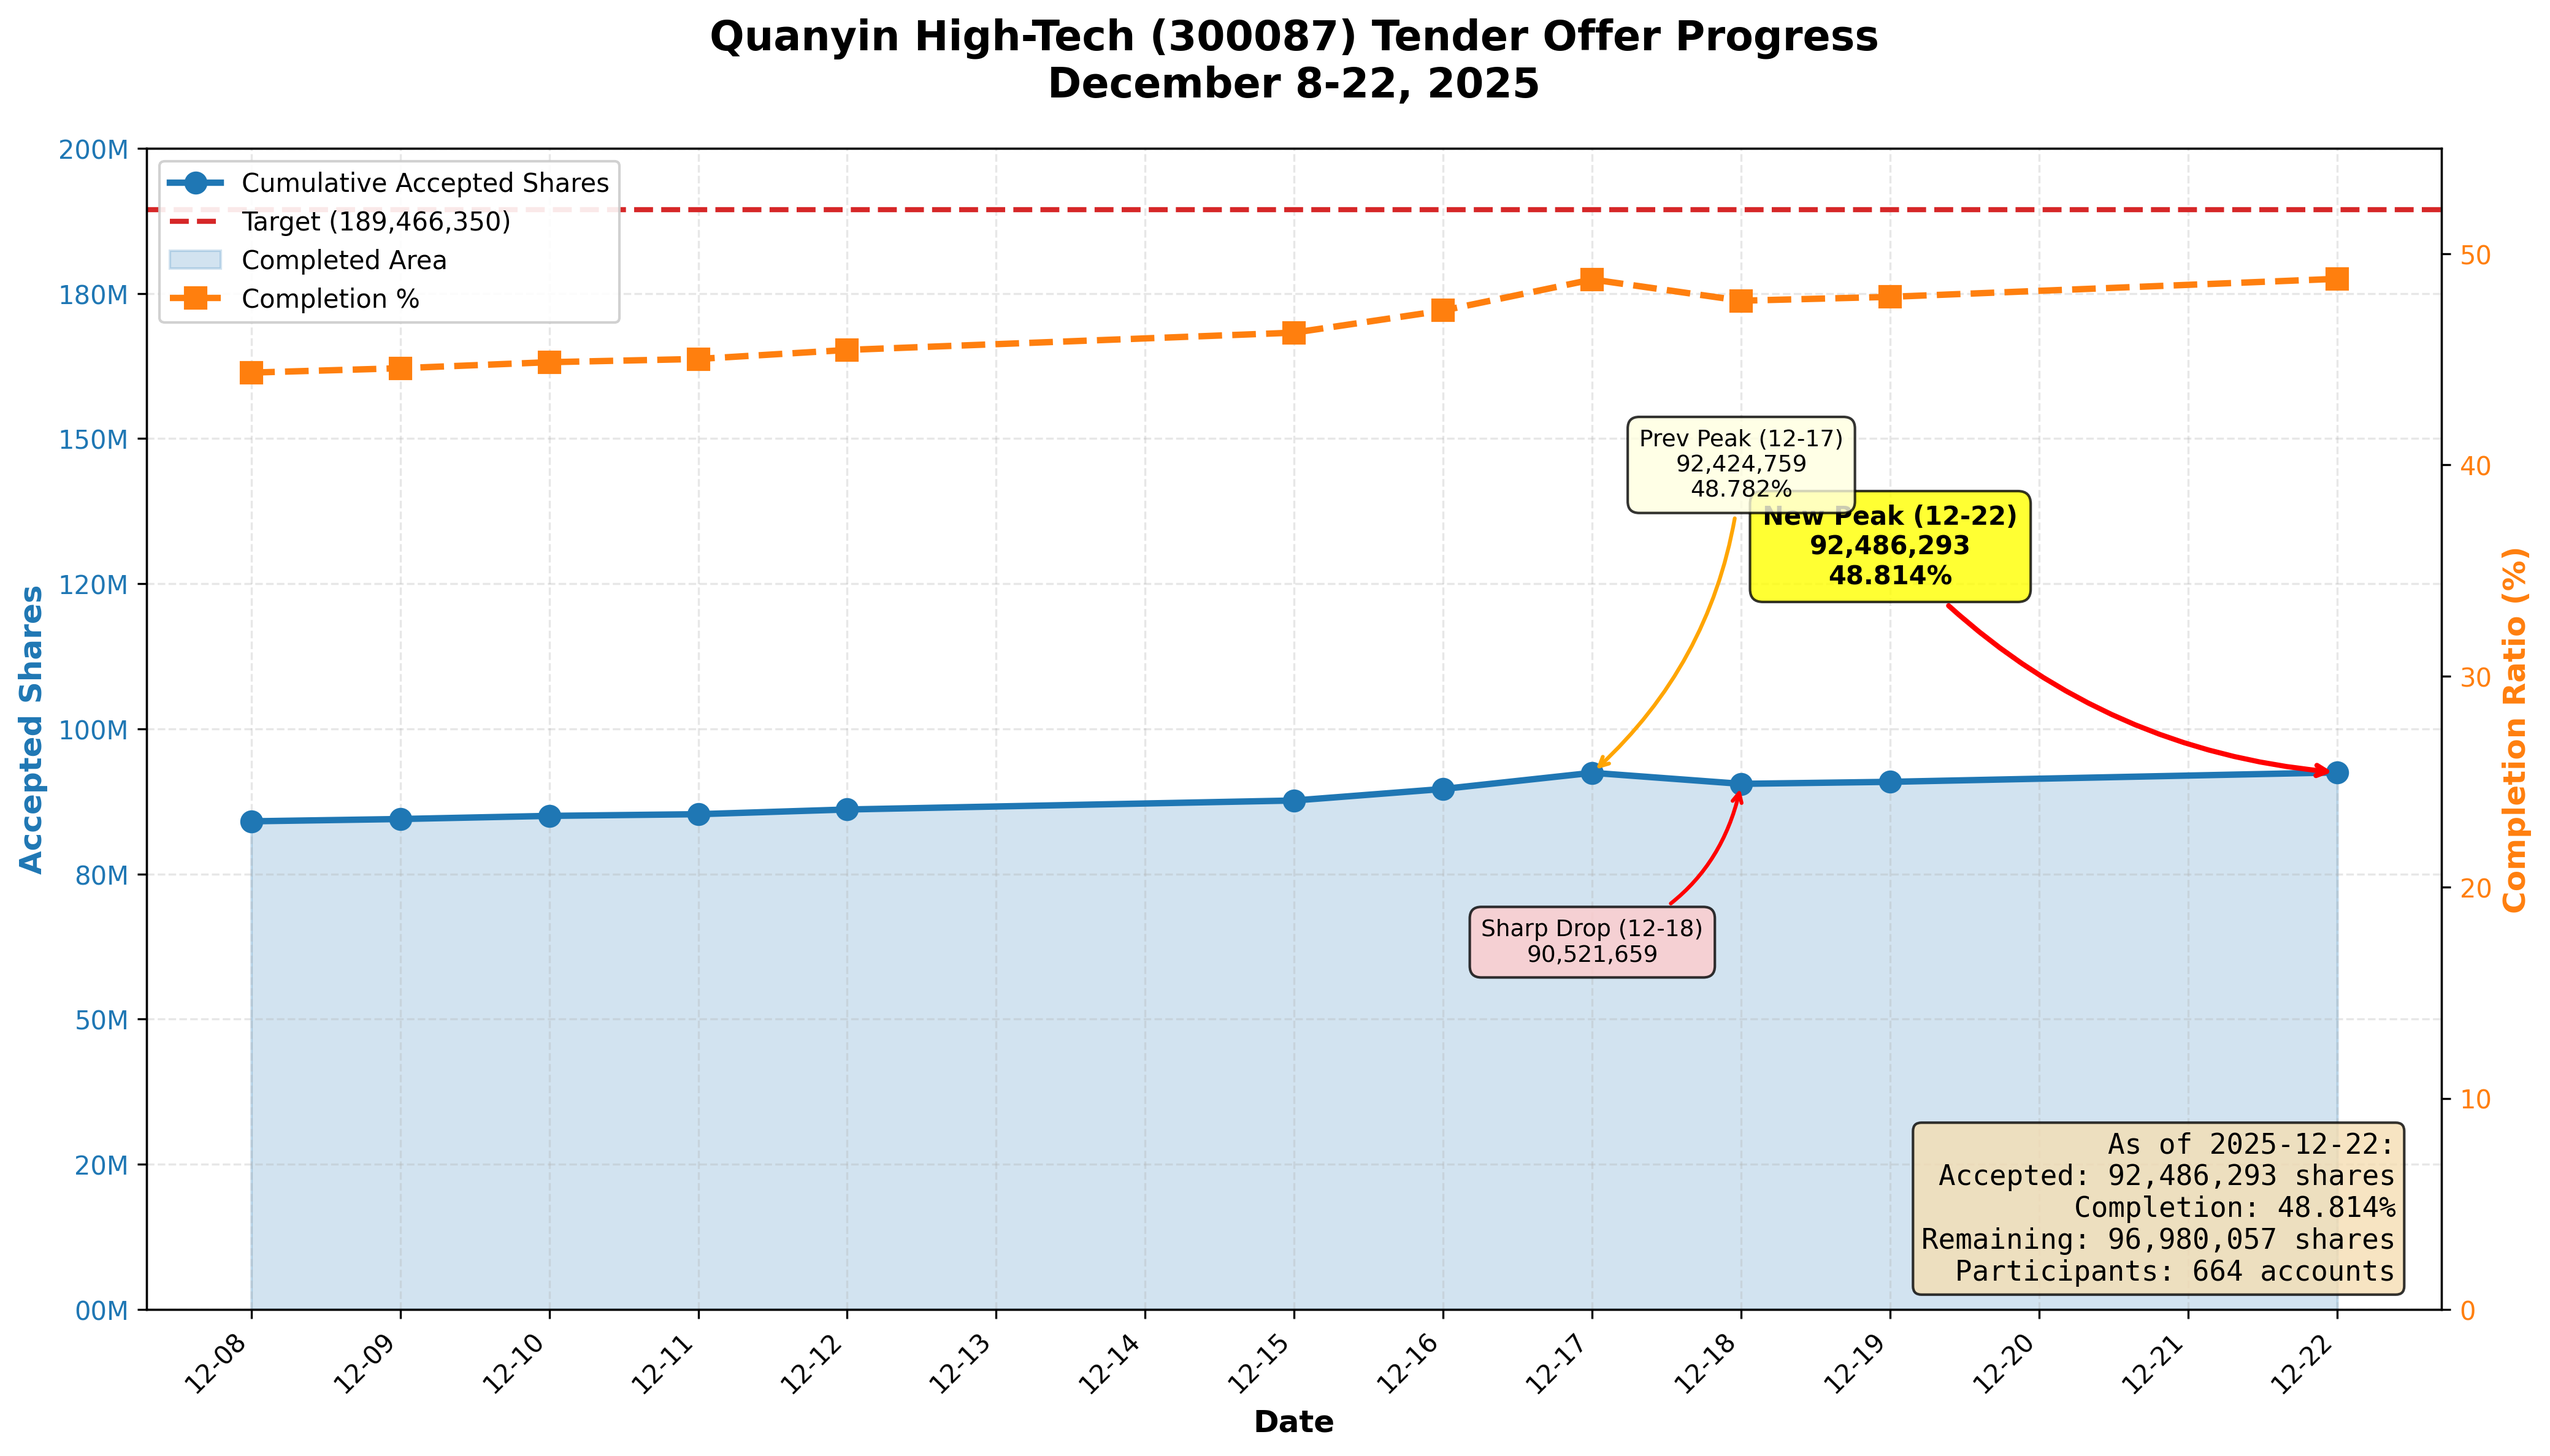
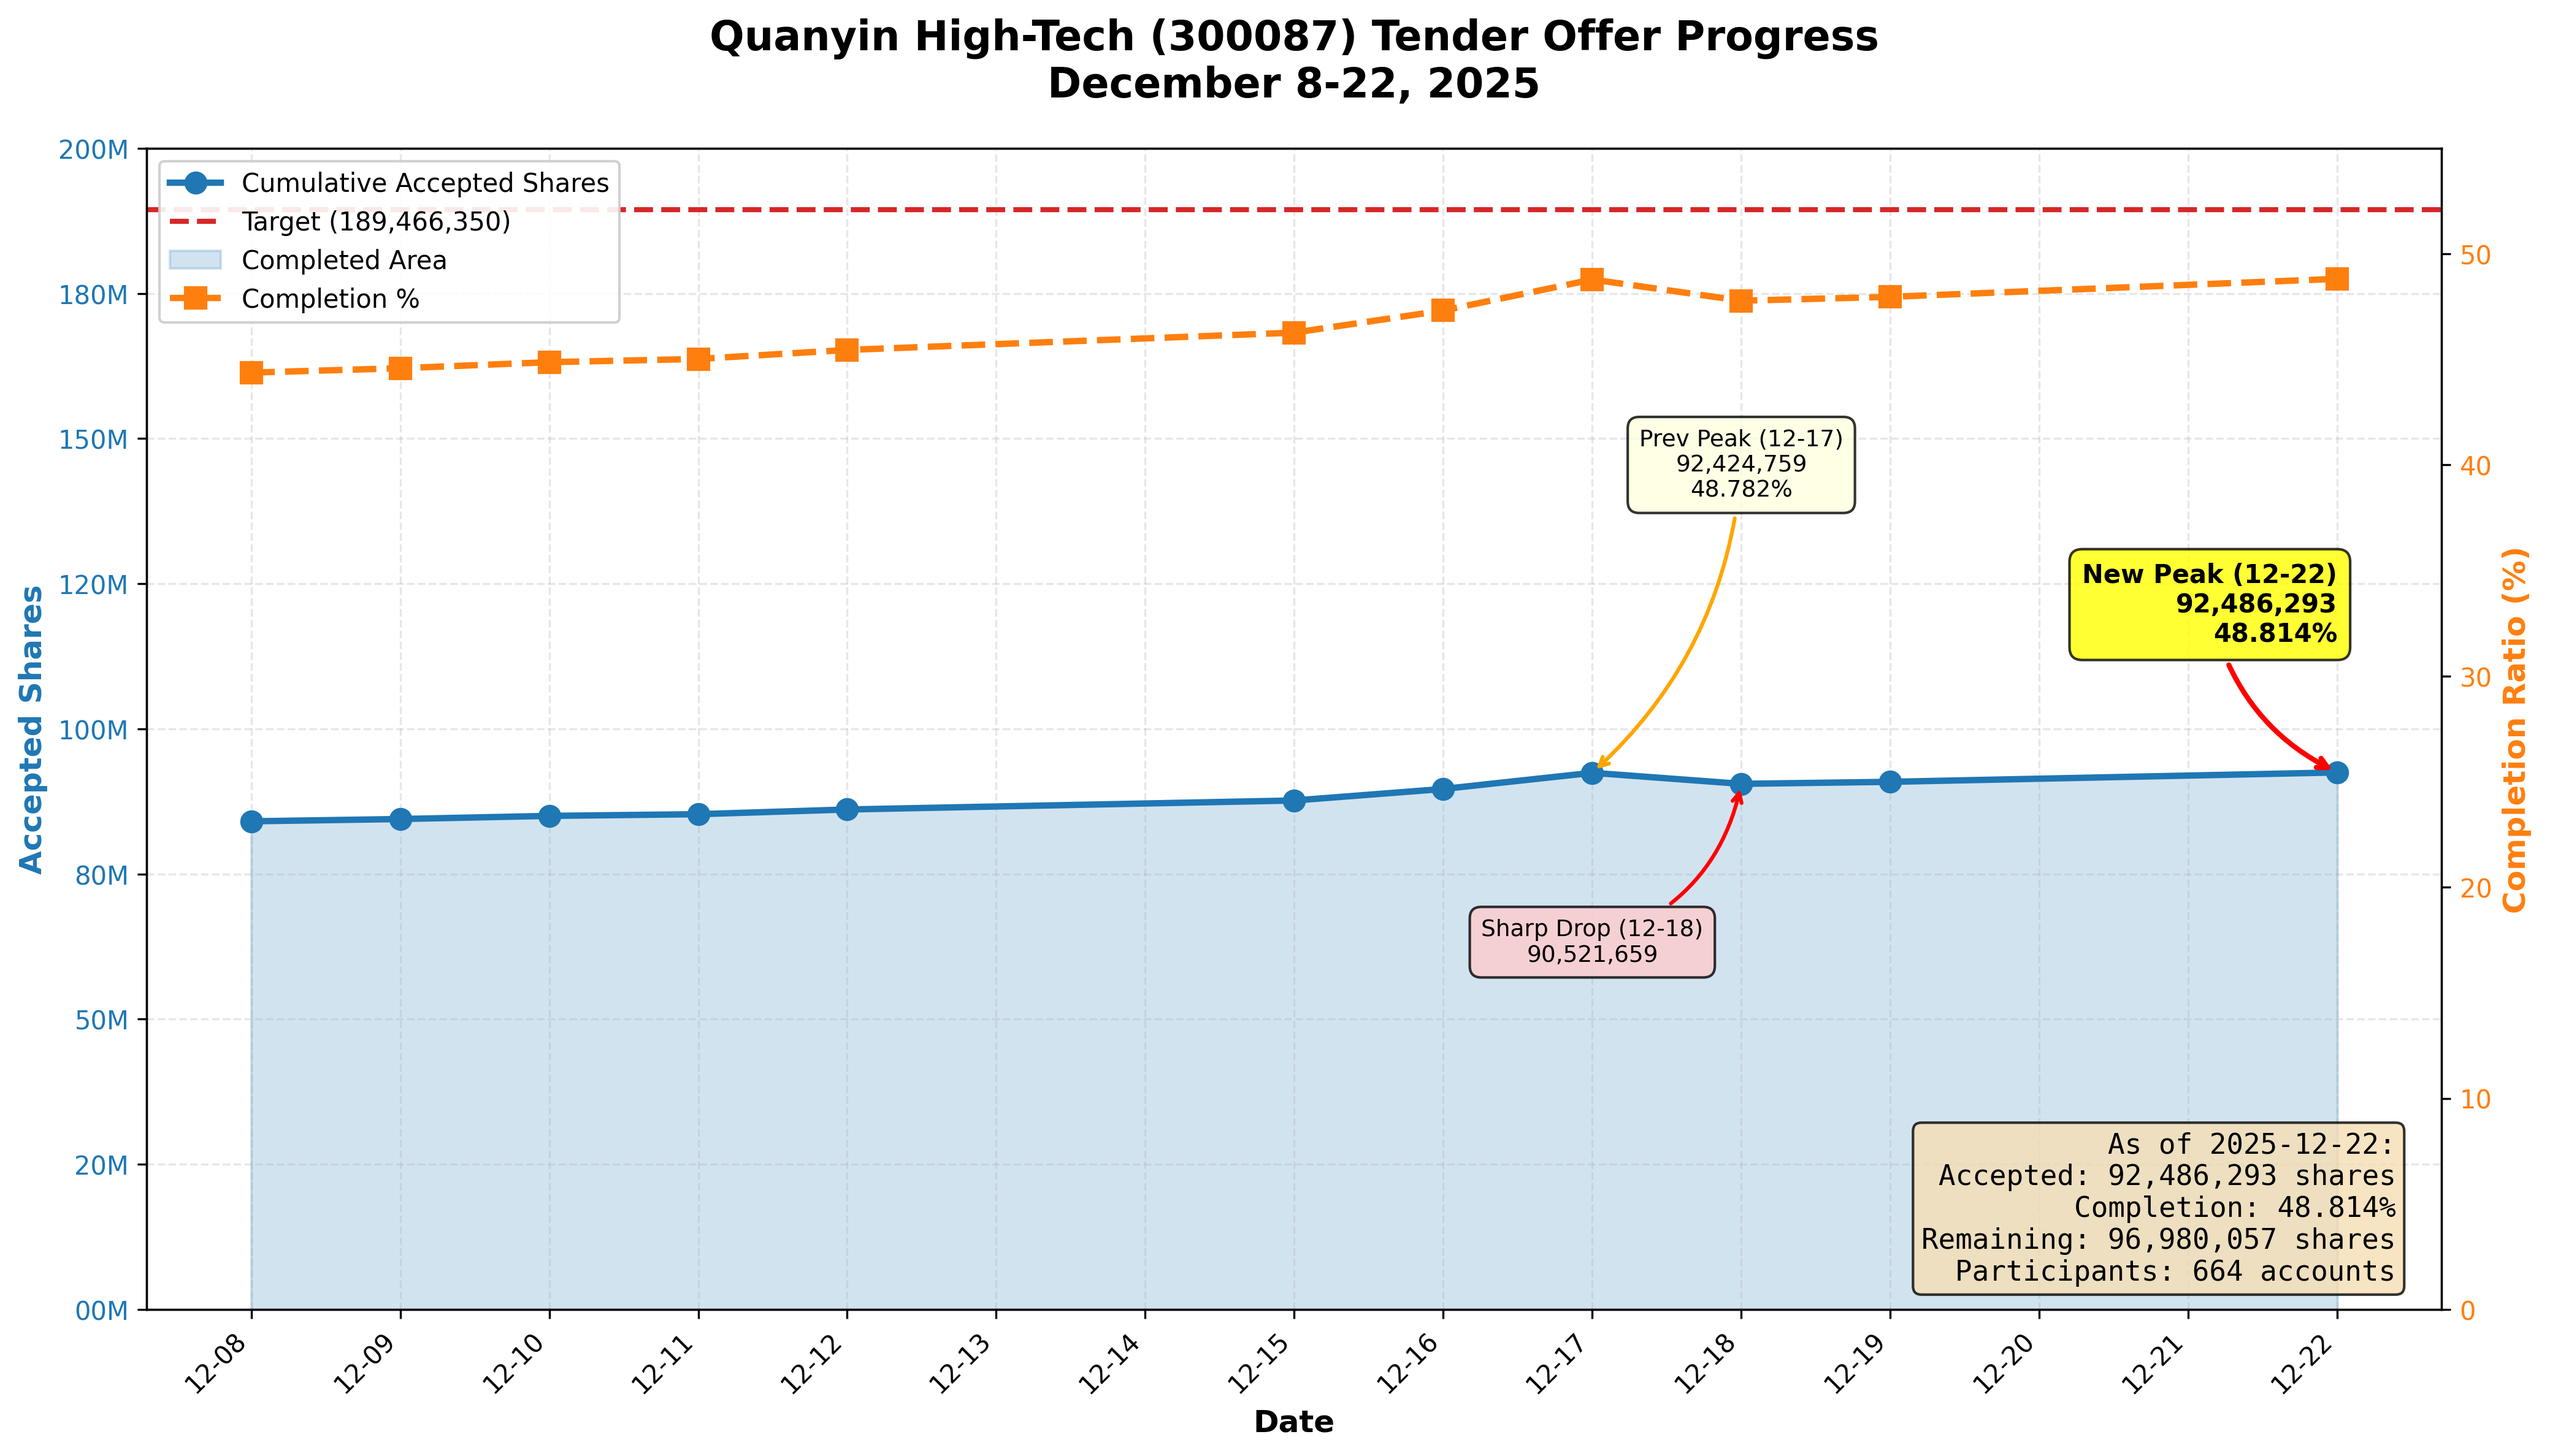
最终优化图表标注框布局，避免重合
- 调整New Peak标注框位置：右移至12-22位置，下移至115M
- 使用右对齐避免超出边界
- New Peak (115M) 与 Prev Peak (140M) 垂直分离，不再重合
- 三个标注框布局完美：互不遮挡，清晰美观

Changed region(s): [[0.6825, 0.3116, 0.9307, 0.4985], [0.8377, 0.4985, 0.9307, 0.5297]]

diff --git a/05_quanyin_tender_offer/generate_chart.py b/05_quanyin_tender_offer/generate_chart.py
@@ -111,15 +111,15 @@ ax1.xaxis.set_major_locator(mdates.DayLocator(interval=1))
 plt.setp(ax1.xaxis.get_majorticklabels(), rotation=45, ha='right')
 
 # Annotate key points - positioned in blank areas to avoid covering data
-# Peak point (12-22) - positioned in upper right area
+# Peak point (12-22) - positioned in right area
 peak_idx = completion_ratio.index(max(completion_ratio))
 ax1.annotate(f'New Peak (12-22)\n{cumulative_shares[peak_idx]:,}\n{completion_ratio[peak_idx]}%',
              xy=(date_objects[peak_idx], cumulative_shares[peak_idx]),
-             xytext=(date_objects[-2], 125000000),
+             xytext=(date_objects[-1], 115000000),
              bbox=dict(boxstyle='round,pad=0.5', facecolor='yellow', alpha=0.8),
-             arrowprops=dict(arrowstyle='->', connectionstyle='arc3,rad=0.2',
+             arrowprops=dict(arrowstyle='->', connectionstyle='arc3,rad=0.25',
                            color='red', lw=2),
-             fontsize=10, fontweight='bold', ha='center')
+             fontsize=10, fontweight='bold', ha='right')
 
 # Previous peak (12-17) - positioned in middle right area
 prev_peak_idx = 7  # 12-17 index
